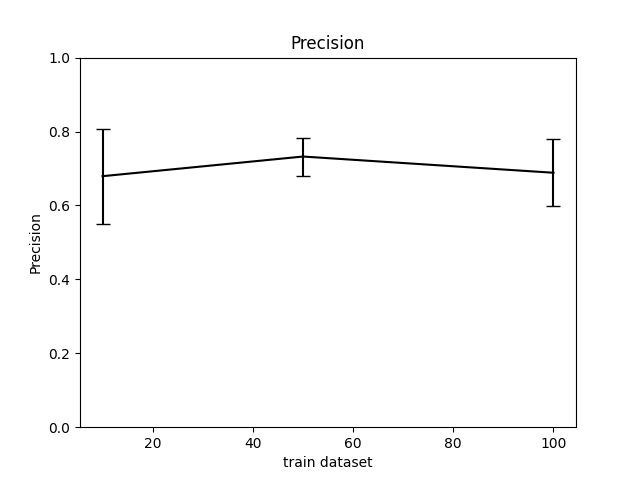
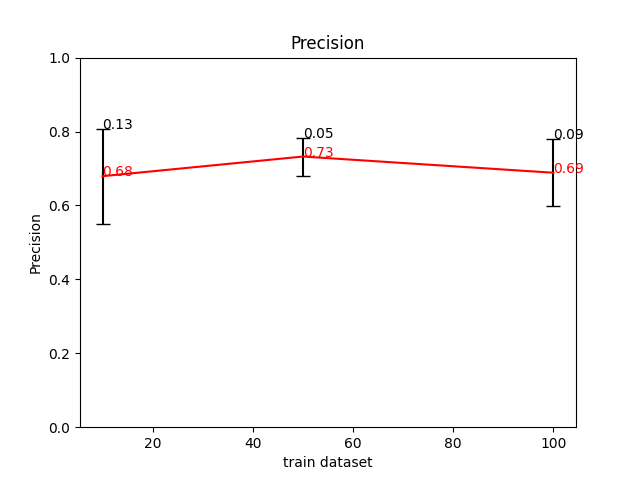
make the error bar graphs

diff --git a/scripts/yolov8/error_bar_graph.py b/scripts/yolov8/error_bar_graph.py
@@ -64,22 +64,20 @@ def main():
     for k in range(3):
         for i in range(4):
             x = [10, 50, 100]
-            y = [mean_np[k,j,i] for j in range(3)]
-            y_err = [sd_np[k,j,i] for j in range(3)]
+            y = [0.0, 0.0, 0.0]
+            y_err = [0.0, 0.0, 0.0]
+            for j in range(3):
+                y[j] = float(mean_np[k,j,i])
+                y_err[j] = float(sd_np[k,j,i])
             plt.figure()
             plt.title(index_name_list[i]) 
             plt.xlabel("train dataset") 
             plt.ylabel(index_name_list[i]) 
-            plt.errorbar(x, y, yerr = y_err, capsize=5, markersize=10, ecolor = 'black', markeredgecolor = "black", color = "black")
-            plt.text(x, y, "str")
+            plt.ylim(0.0, 1.0)
+            plt.errorbar(x, y, yerr = y_err, capsize=5, markersize=10, ecolor = 'black', markeredgecolor = "black", color = "red")
             for j, x_gra in enumerate([10, 50, 100]):
-                x = float(x[j])
-                y = float(y[j])
-                print(y)
-                print(type(y))
-                print(j)
-                plt.text(x_gra, mean_np[k,j,i], str(mean_np[k,j,i]))
-                plt.text(x_gra, sd_np[k,j,i], str(sd_np[k,j,i]))
+                plt.text(x_gra, y[j], str('{:.2f}'.format(y[j])), color = 'red')
+                plt.text(x_gra, y[j] + y_err[j], str('{:.2f}'.format(y_err[j])))
             exec("class_directory = args.output_" + str(class_name_list[k]) + "_directory")
             file_path = os.path.join(eval("class_directory"), str(index_name_list[i]) + ".png")
             plt.savefig(file_path)
